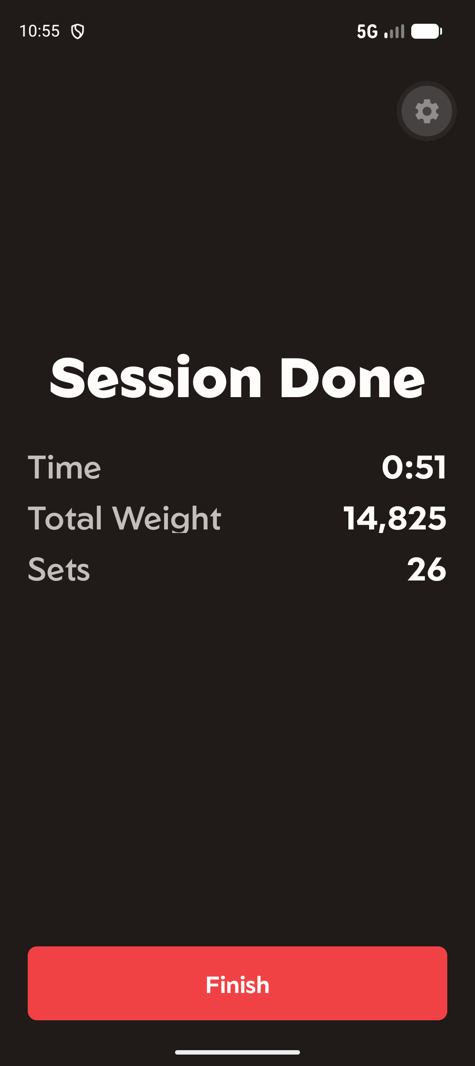
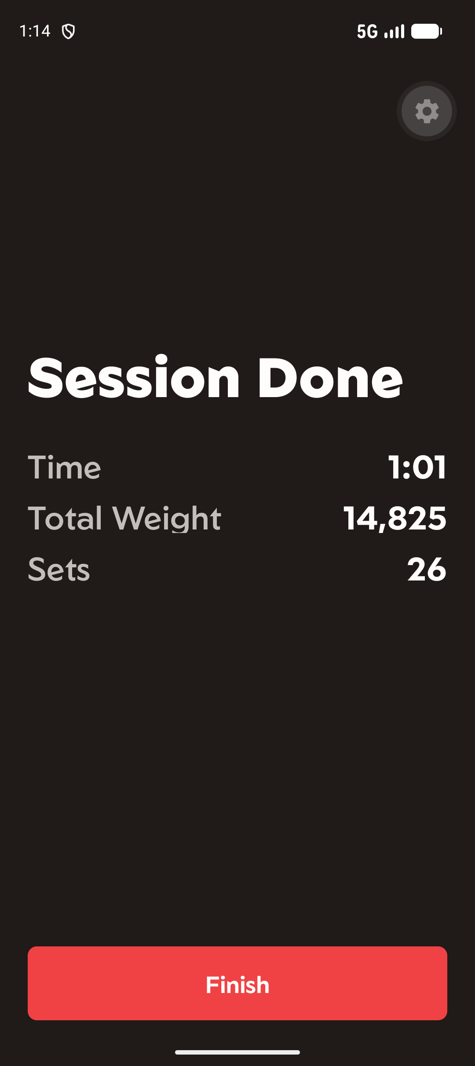
Loop screens: Edit Weights gets its [-5][Custom][+5] modes; Session Done left-aligns
Justin's review: Edit Weights was only the keypad frame — the screen is
three frames in one (34:695/34:1236/34:960): stepper mode with the
[-5][Custom][+5] row is the default, Custom swaps in the keypad. And
Session Done (which has no phone frame) now follows the left-aligned
rule like every phone screen.

Re-captured on the emulator: stepper at +5 (warning yellow), keypad,
all-sets-done, and the left-aligned Session Done with the same provably
correct totals.

diff --git a/mobile/src/features/set-loop/EditWeightsScreen.tsx b/mobile/src/features/set-loop/EditWeightsScreen.tsx
@@ -1,6 +1,6 @@
 import { ArrowLeft } from 'lucide-react-native';
 import { useState } from 'react';
-import { StyleSheet, Text, View } from 'react-native';
+import { Pressable, StyleSheet, Text, View } from 'react-native';
 
 import { Button } from '@/components/Button';
 import { Keypad, type KeypadKey } from '@/components/Keypad';
@@ -10,8 +10,9 @@ import { color, type } from '@/theme/tokens';
 import { currentExercise, type Dispatch } from './session-ui';
 import type { SessionState } from './types';
 
-// Edit Weights / Custom (Figma 34:960): the readout with the was/delta line, the
-// keypad, Save Changes. A detour off Log a Set — back arrow abandons the edit.
+// Edit Weights (Figma 34:695 / 34:1236 / 34:960 — three frames, one screen): the
+// readout with the was/delta line, a [−5][Custom][+5] row, Save Changes. Custom swaps
+// the stepper row for the keypad (34:960). Back abandons the edit.
 
 export function EditWeightsScreen({
   state,
@@ -23,8 +24,12 @@ export function EditWeightsScreen({
   onEvent: Dispatch;
 }) {
   const exercise = currentExercise(state);
+  const [mode, setMode] = useState<'stepper' | 'keypad'>('stepper');
+  const [stepped, setStepped] = useState(exercise.weight);
   const [draft, setDraft] = useState('');
-  const value = draft === '' ? exercise.weight : Number(draft);
+
+  const value = mode === 'keypad' ? (draft === '' ? exercise.weight : Number(draft)) : stepped;
+  const dirty = mode === 'keypad' ? draft !== '' : stepped !== exercise.weight;
 
   const onKey = (key: KeypadKey) => {
     setDraft((d) => {
@@ -45,11 +50,24 @@ export function EditWeightsScreen({
       <View style={styles.center}>
         <WeightReadout unit="Lbs" value={value} was={exercise.weight} />
       </View>
-      <Keypad onKey={onKey} />
+
+      {mode === 'stepper' ? (
+        // The [−5][Custom][+5] row, node 34:756 — Secondary recipe, ±5 like the plates.
+        <View style={styles.stepperRow}>
+          <StepKey label="-5" onPress={() => setStepped((w) => Math.max(0, w - 5))} />
+          <View style={styles.grow}>
+            <Button onPress={() => setMode('keypad')} title="Custom" variant="secondary" />
+          </View>
+          <StepKey label="+5" onPress={() => setStepped((w) => w + 5)} />
+        </View>
+      ) : (
+        <Keypad onKey={onKey} />
+      )}
+
       <Text style={styles.caption}>Applies to future sets and workouts</Text>
       <View style={styles.bottomBar}>
         <Button
-          disabled={draft === '' || value <= 0}
+          disabled={!dirty || value <= 0}
           onPress={() => onEvent({ type: 'weightSaved', weight: value })}
           title="Save Changes"
         />
@@ -58,9 +76,35 @@ export function EditWeightsScreen({
   );
 }
 
+function StepKey({ label, onPress }: { label: string; onPress: () => void }) {
+  return (
+    <Pressable
+      accessibilityLabel={label}
+      accessibilityRole="button"
+      onPress={onPress}
+      style={({ pressed }) => [styles.stepKey, pressed && styles.stepKeyPressed]}
+    >
+      <Text style={styles.stepLabel}>{label}</Text>
+    </Pressable>
+  );
+}
+
 const styles = StyleSheet.create({
   root: { flex: 1 },
   center: { flex: 1, alignItems: 'center', justifyContent: 'center' },
-  caption: { ...type.bodyLight, color: color.text.secondary, textAlign: 'center' },
+  stepperRow: { flexDirection: 'row', gap: 16, paddingHorizontal: 24, alignItems: 'center' },
+  grow: { flex: 1 },
+  stepKey: {
+    minWidth: 64,
+    minHeight: 64,
+    padding: 20,
+    borderRadius: 8,
+    alignItems: 'center',
+    justifyContent: 'center',
+    backgroundColor: color.bg.raised,
+  },
+  stepKeyPressed: { backgroundColor: color.press.raised },
+  stepLabel: { ...type.button, color: color.text.onButton },
+  caption: { ...type.bodyLight, color: color.text.secondary, textAlign: 'center', marginTop: 16 },
   bottomBar: { paddingHorizontal: 24, paddingBottom: 40, paddingTop: 12 },
 });

diff --git a/mobile/src/features/set-loop/SessionDoneScreen.tsx b/mobile/src/features/set-loop/SessionDoneScreen.tsx
@@ -5,8 +5,9 @@ import { color, type } from '@/theme/tokens';
 import { formatClock, sessionTotals } from './session-ui';
 import type { SessionState } from './types';
 
-// Session Done (watch Summary 164:4712's stat list, phone-sized): time, total weight,
-// sets, then Finish back to the tiles. Avg heart rate joins when HR lands.
+// Session Done — no phone frame exists yet; stat list from the watch Summary
+// (164:4712), laid out left-aligned like every phone screen (Justin, 2026-09-02).
+// Avg heart rate joins when HR lands.
 
 export function SessionDoneScreen({
   state,
@@ -51,10 +52,10 @@ function Stat({ label, value }: { label: string; value: string }) {
 const styles = StyleSheet.create({
   root: { flex: 1 },
   center: { flex: 1, justifyContent: 'center', paddingHorizontal: 24, gap: 16 },
-  title: { ...type.h1, color: color.text.primary, textAlign: 'center', marginBottom: 24 },
+  title: { ...type.h1, color: color.text.primary, marginBottom: 24 },
   statRow: { flexDirection: 'row', justifyContent: 'space-between', alignItems: 'baseline' },
   statLabel: { ...type.h3, color: color.text.secondary },
   statValue: { ...type.h3Bold, color: color.text.primary },
-  early: { ...type.bodyLight, color: color.warning, textAlign: 'center', marginTop: 16 },
+  early: { ...type.bodyLight, color: color.warning, marginTop: 16 },
   bottomBar: { paddingHorizontal: 24, paddingBottom: 40, paddingTop: 12 },
 });
